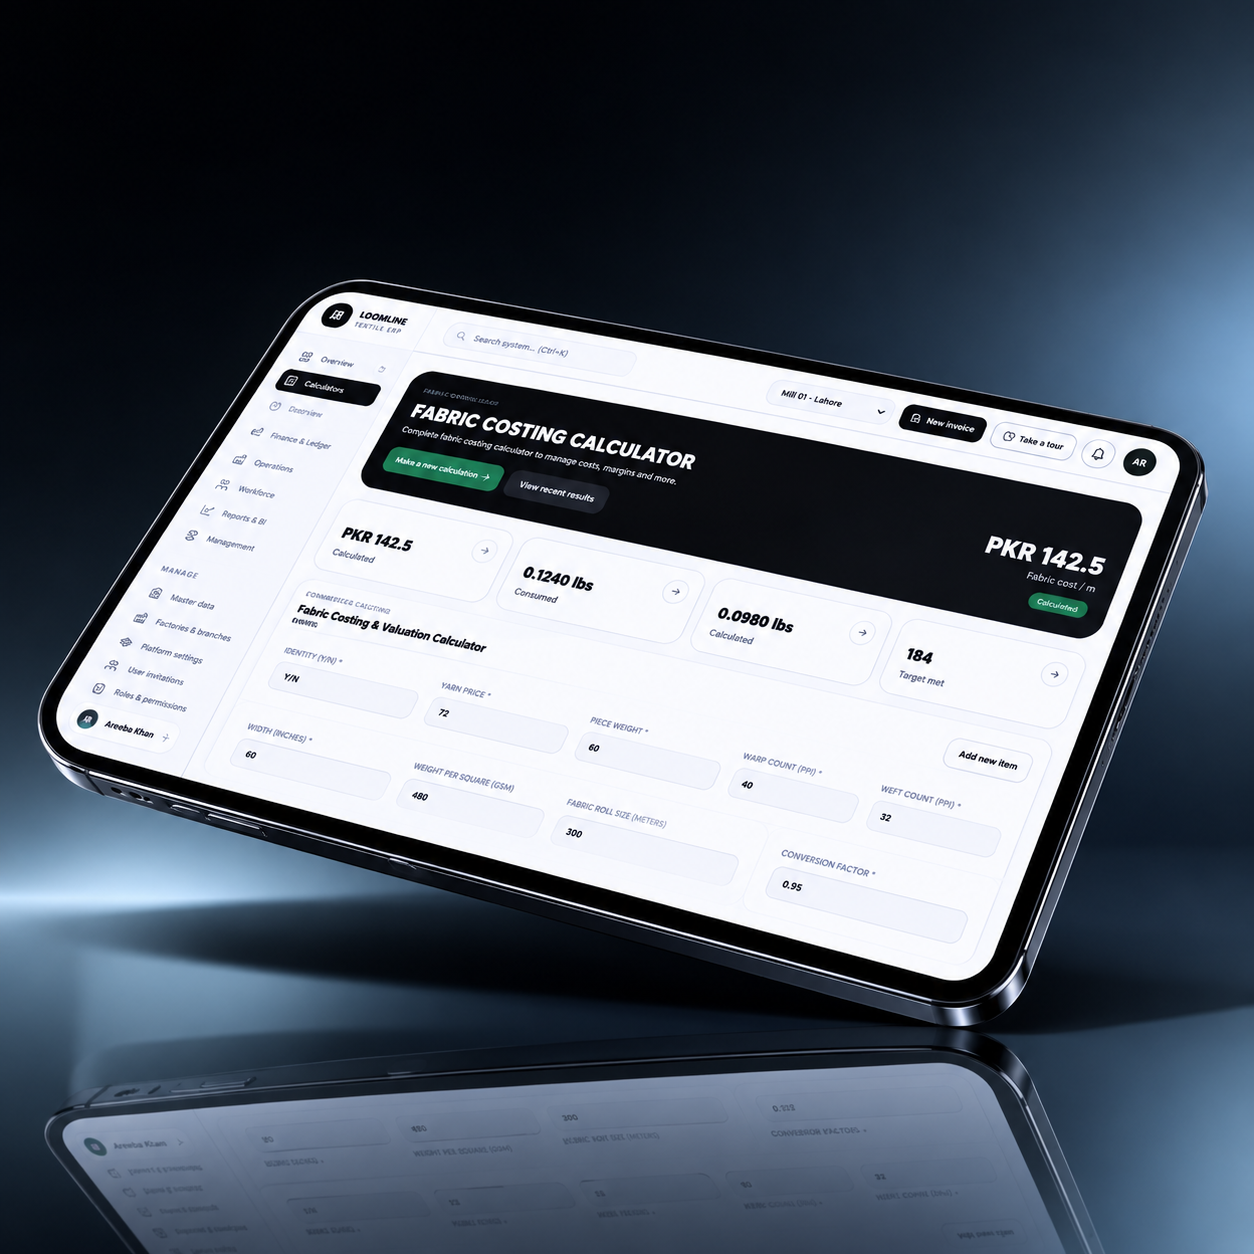
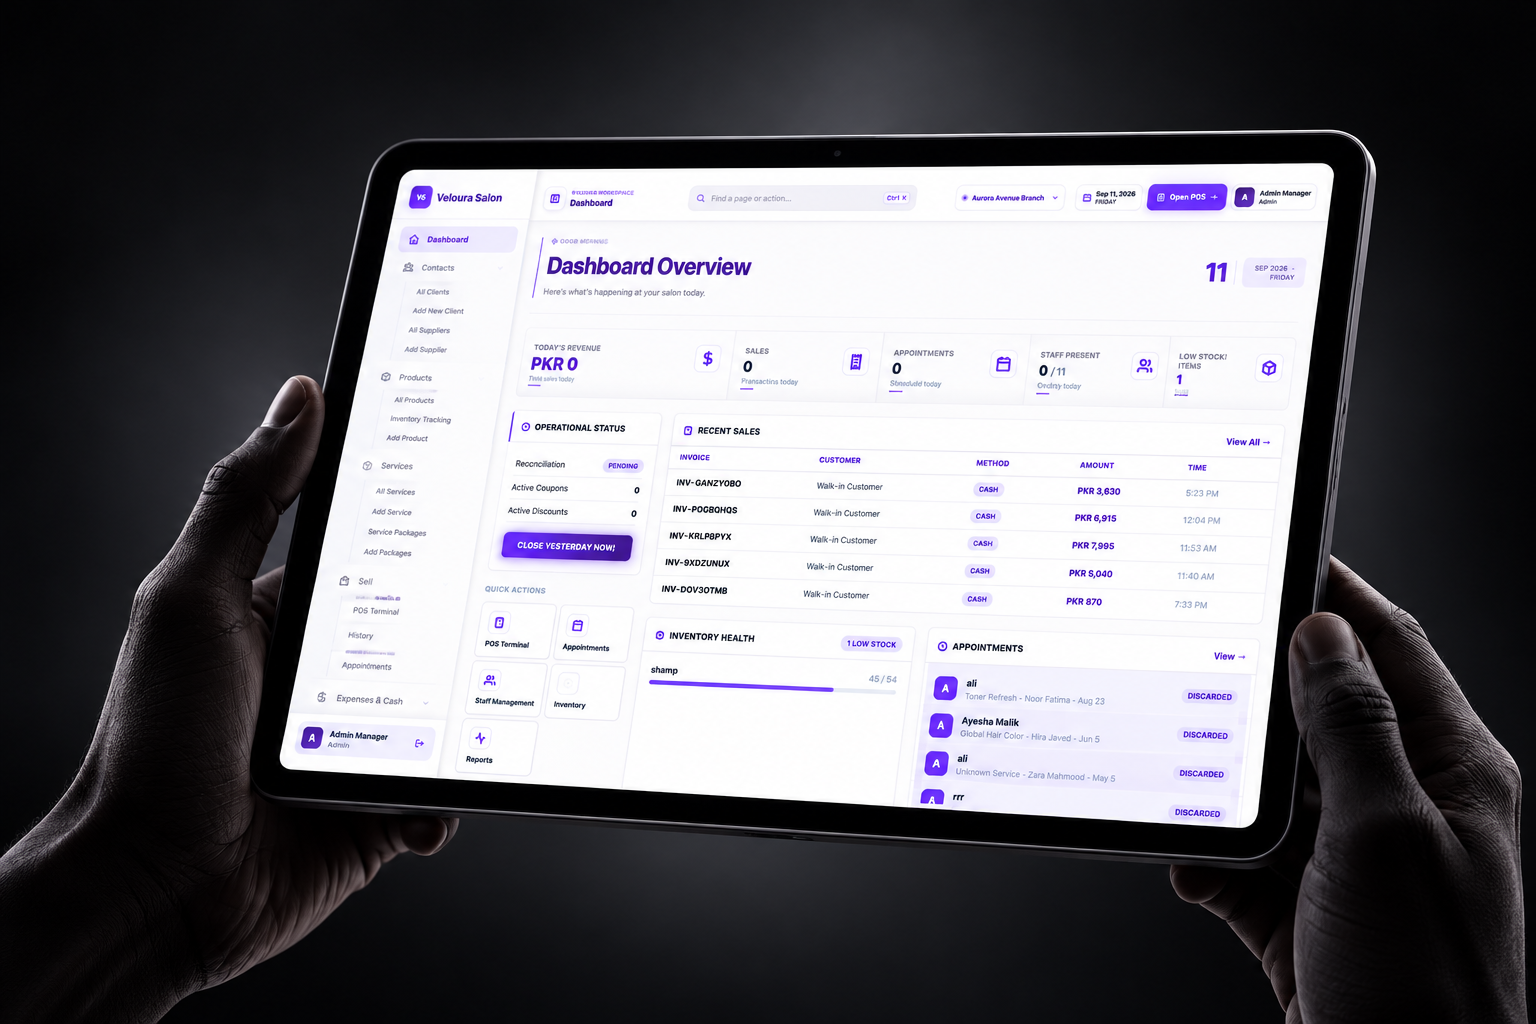
refactor(HeroSection): remove unused mouse tracking and simplify structure; update hero image styles

diff --git a/components/services/custom_software/HeroSection.tsx b/components/services/custom_software/HeroSection.tsx
@@ -1,36 +1,13 @@
 "use client";
 
-import React, { useRef, useState, useEffect } from "react";
+import React, { useRef } from "react";
 import Image from "next/image";
-import Link from "next/link";
 import { motion, useInView } from "framer-motion";
-import { Plus, ArrowUpRight } from "lucide-react";
+import { Plus } from "lucide-react";
 
 export default function HeroSection() {
   const sectionRef = useRef<HTMLDivElement>(null);
-  const bannerRef = useRef<HTMLDivElement>(null);
-  const [mousePos, setMousePos] = useState({ x: 0, y: 0 });
-  const [isHovered, setIsHovered] = useState(false);
   const isInView = useInView(sectionRef, { once: true });
-
-  useEffect(() => {
-    const handleMouseMove = (e: MouseEvent) => {
-      if (!bannerRef.current) return;
-      const rect = bannerRef.current.getBoundingClientRect();
-      const x = e.clientX - rect.left;
-      const y = e.clientY - rect.top;
-
-      if (x >= 0 && x <= rect.width && y >= 0 && y <= rect.height) {
-        setMousePos({ x, y });
-        setIsHovered(true);
-      } else {
-        setIsHovered(false);
-      }
-    };
-
-    window.addEventListener("mousemove", handleMouseMove);
-    return () => window.removeEventListener("mousemove", handleMouseMove);
-  }, []);
 
   const titleWords = ["Custom", "Software", "Development"];
   const servicesLeft = ["Web Applications", "SaaS Platforms", "API Development"];
@@ -109,10 +86,9 @@ export default function HeroSection() {
           </motion.div>
         </div>
 
-        {/* Large Banner Image with Custom Rotating Follow Cursor */}
+        {/* Custom software hero image card */}
         <div
-          ref={bannerRef}
-          className="relative left-1/2 h-[320px] w-[calc(100%+2rem)] -translate-x-1/2 overflow-hidden rounded-2xl bg-transparent shadow-sm sm:h-[420px] sm:w-[calc(100%+4rem)] md:h-[540px] lg:h-[620px] lg:w-[calc(100%+6rem)] md:cursor-none select-none"
+          className="relative left-1/2 mb-[10px] mt-[10px] h-[550px] min-h-[320px] w-[calc(100vw-30px)] -translate-x-1/2 overflow-hidden rounded-md bg-transparent sm:h-[650px] md:h-[770px] lg:h-[850px] 2xl:h-[1000px] min-[2560px]:h-[1150px] min-[3000px]:h-[1300px] select-none"
         >
           <motion.div
             initial={{ opacity: 0, scale: 1 }}
@@ -126,63 +102,11 @@ export default function HeroSection() {
               fill
               sizes="100vw"
               priority
-              className="object-contain object-center"
+              className="object-cover object-center"
             />
           </motion.div>
 
-          {/* Interactive Floating Circular Cursor with Spinning Text */}
-          {isHovered && (
-            <div
-              className="pointer-events-none absolute left-0 top-0 z-20 hidden md:flex h-32 w-32 items-center justify-center rounded-full bg-white/55 backdrop-blur-md shadow-2xl border border-white/10 transition-transform duration-75 ease-out"
-              style={{
-                left: `${mousePos.x}px`,
-                top: `${mousePos.y}px`,
-                transform: "translate(-50%, -50%)",
-              }}
-            >
-              <div className="absolute z-10 text-black">
-                <svg width="18" height="18" viewBox="0 0 24 24" fill="currentColor">
-                  <path d="M3 3l7 18 3-7 7-3L3 3z" />
-                </svg>
-              </div>
-              <div className="relative flex h-full w-full items-center justify-center animate-spin" style={{ animationDuration: "12s" }}>
-                <svg className="h-full w-full p-2" viewBox="0 0 100 100">
-                  <path id="serviceHeroCircle" d="M 50, 50 m -36, 0 a 36,36 0 1,1 72,0 a 36,36 0 1,1 -72,0" fill="none" />
-                  <text className="text-[9.5px] font-semibold uppercase tracking-[0.27em] fill-black">
-                    <textPath href="#serviceHeroCircle" startOffset="0%">
-                      VIEW LIVE DEMO • VIEW LIVE • 
-                    </textPath>
-                  </text>
-                </svg>
-              </div>
-            </div>
-          )}
 
-          {/* Bottom Glass Overlay Bar */}
-          {/* <motion.div
-            initial={{ opacity: 0, y: "100%" }}
-            animate={isInView ? { opacity: 1, y: "0%" } : { opacity: 0, y: "100%" }}
-            transition={{ duration: 0.75, delay: 0.5, ease: "easeOut" }}
-            className="absolute inset-x-4 bottom-4 z-20"
-          >
-            <div className="flex items-center justify-between gap-4 bg-white/20 backdrop-blur-md border border-white/10 rounded-2xl p-3 sm:px-5 sm:py-4 shadow-[0_8px_32px_0_rgba(0,0,0,0.36)]">
-              <div>
-                <p className="text-xs sm:text-sm font-semibold text-white drop-shadow-sm">
-                  CloudKhata &amp; Enterprise Systems
-                </p>
-                <p className="hidden sm:block text-[11px] text-white/90">
-                  Custom software for inventory, POS, billing &amp; HR.
-                </p>
-              </div>
-
-              <Link
-                href="/projects"
-                className="flex-shrink-0 flex items-center gap-1.5 bg-black hover:bg-white/20 text-white border border-white/20 backdrop-blur-md text-xs font-semibold px-4 py-2.5 rounded-xl transition-all duration-300 hover:scale-105 active:scale-95 shadow-lg whitespace-nowrap"
-              >
-                <span>Live demo ↗</span>
-              </Link>
-            </div>
-          </motion.div> */}
         </div>
       </div>
     </section>
